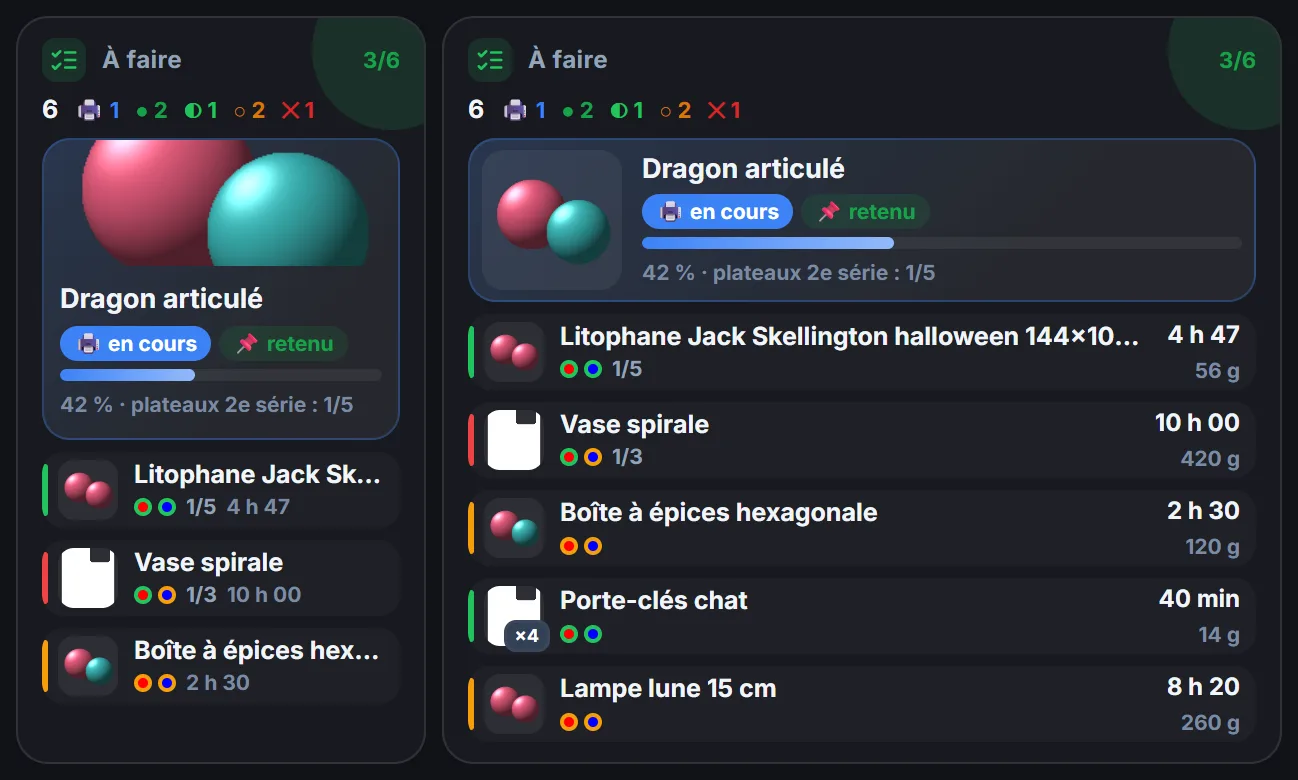
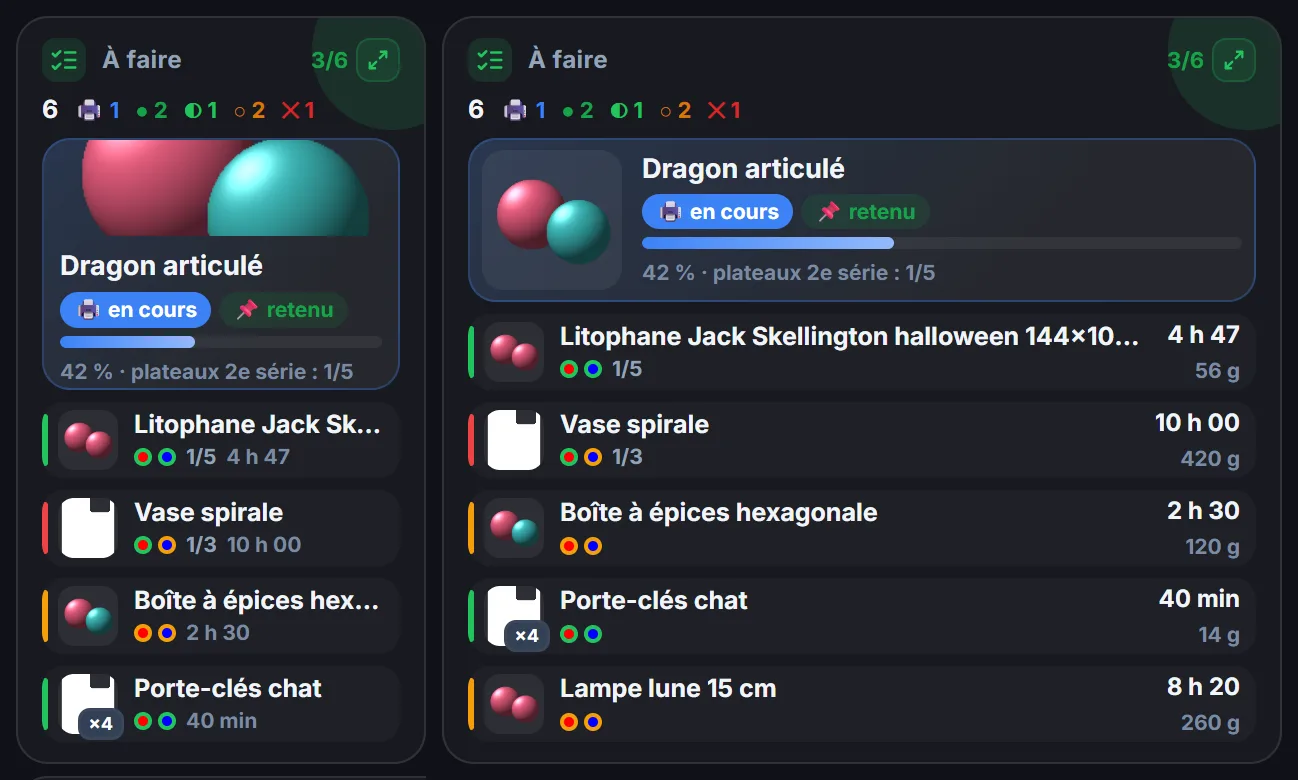
Accueil : Dernières impressions a la même ligne de comptes que À faire, et un bouton pastel dans l'en-tête des tuiles qui s'ouvrent en grand ; fiche MakerWorld : la galerie défile à la souris (glisser, flèches) sans se bloquer

diff --git a/frontend/src/components/HomeTiles.jsx b/frontend/src/components/HomeTiles.jsx
@@ -1,4 +1,4 @@
-import React, { createContext, useContext, useEffect, useLayoutEffect, useMemo, useRef, useState } from "react";
+import React, { createContext, useContext, useCallback, useEffect, useLayoutEffect, useMemo, useRef, useState } from "react";
 import { importRetry } from "../utils/importRetry";
 import AllAlertsModal from "./AllAlertsModal";
 import { Hide } from "./Cachettes";
@@ -10,7 +10,7 @@ import { createPortal } from "react-dom";
 import { useNavigate } from "react-router-dom";
 import { CalendarClock, BarChart3, ListChecks, History, Package, Flame, Droplets, Coins, Star, Users, Trophy,
          Dices, ChevronRight, Camera, Video, Thermometer, CalendarDays, ShoppingBag, Rss, Images, Zap, Medal as MedalIcon,
-         BellRing, Split, Fan, Wrench, TrendingUp, TrendingDown, Key, Ticket, X, ArrowUpRight, Timer, Palette, Target, Disc3, CalendarCheck } from "lucide-react";
+         BellRing, Split, Fan, Wrench, TrendingUp, TrendingDown, Key, Ticket, X, ArrowUpRight, Timer, Palette, Target, Disc3, CalendarCheck, Maximize2 } from "lucide-react";
 import client, { apiUrl, apiThumb } from "../api/client";
 import { mwImg } from "./MwImg";
 import LiveCamera from "./LiveCamera";
@@ -109,7 +109,8 @@ function Tile({ icon, color, label, to, zoom, onClick, badge, children, mini = f
   const nav = useNavigate();
   const [open, setOpen] = useState(false);
   const [ref, box] = useMeasure();
-  const act = onClick || (zoom ? () => setOpen(true) : to ? () => nav(to) : null);
+  const openBig = useCallback(() => setOpen(true), []);
+  const act = onClick || (zoom ? openBig : to ? () => nav(to) : null);
   const big = open && <Zoom icon={icon} color={color} label={label} to={to} onClose={() => setOpen(false)}>{zoom}</Zoom>;
   if (mini) return (
     <div className="card" role={act ? "button" : undefined} tabIndex={act ? 0 : undefined} onClick={act}
@@ -139,7 +140,11 @@ function Tile({ icon, color, label, to, zoom, onClick, badge, children, mini = f
           whiteSpace: "nowrap", minWidth: 0 }}><W text={label}/></span>
         <Hide at={`tile:${label}`}/>
         <span style={{ marginLeft: "auto", display: "flex", alignItems: "center", gap: 4, flexShrink: 0 }}>
-          {badge}{!zoom && act && <ChevronRight size={14} style={{ color: "var(--muted)" }}/>}</span>
+          {badge}{!zoom && act && <ChevronRight size={14} style={{ color: "var(--muted)" }}/>}
+          {/* la tuile s'ouvre en grand en touchant son fond ; ses elements, eux, ouvrent leur fiche : le bouton le dit */}
+          {zoom && act === openBig && <span data-pk="" data-tip="Ouvrir en grand" aria-hidden="true" style={{ width: 22, height: 22, borderRadius: 7, flexShrink: 0,
+            display: "flex", alignItems: "center", justifyContent: "center", color, background: `${color}1a`, border: `1px solid ${color}33`, boxSizing: "border-box" }}>
+            <Maximize2 size={11} strokeWidth={2.5}/></span>}</span>
       </div>
       <div ref={ref} style={{ position: "relative", minWidth: 0, flex: 1, minHeight: 0, display: "flex", flexDirection: "column", justifyContent: "center" }}>
         {box.W > 0 && <BoxCtx.Provider value={box}>{kids(children, box)}</BoxCtx.Provider>}
@@ -945,6 +950,14 @@ function ListRow({ edge, img, thumb = true, badge, title, sub, right, h = ROW_H,
     {right}
   </div>;
 }
+// la ligne des comptes, au-dessus de la liste (« À faire » et « Dernières impressions », meme dessin) :
+// le total, puis chaque etat present, avec son mot quand la largeur le permet
+function ListCounts({ W, n, label, items }) {
+  const nar = W < 400;
+  return <div style={{ display: "flex", gap: nar ? 8 : 10, alignItems: "center", height: 16, flexShrink: 0, overflow: "hidden", whiteSpace: "nowrap", fontSize: 11, fontWeight: 800 }}>
+    <span style={{ color: "var(--text)" }}><b data-pk="" style={{ fontSize: 12.5, fontWeight: 900 }}>{n}</b>{nar ? "" : ` ${label}`}</span>
+    {items.filter(x => x[0]).map(([k, c, ic, l]) => <span key={l} data-tip={`${k} ${l}`} style={{ color: c }}>{ic} {k}{nar ? "" : ` ${l}`}</span>)}</div>;
+}
 // le heros : la vignette en grand (a gauche, ou en haut si la tuile est etroite et haute), le titre,
 // l'etat, et l'avancement s'il imprime
 function ListHero({ img, color, title, chips, meta, pct, foot, h, stacked, onOpen, badge }) {
@@ -1051,12 +1064,8 @@ function Next({ q, o, sz }) {
         {!wide && m.seconds ? <span>{fmtDur(m.seconds)}</span> : null}</>}
       right={wide ? <RightCol a={m.seconds ? fmtDur(m.seconds) : null} b={o.weight && m.weight_g ? fmtG(m.weight_g) : null}/> : null}/>; };
   // la ligne des comptes, au-dessus de la liste
-  const counts = W => { const nar = W < 400;
-    const it = [[busy, "#3b82f6", "🖨", "en cours"], [ready, "#16a34a", "●", ready > 1 ? "prêts" : "prêt"], [part, "#22c55e", "◐", "en partie"],
-      [stock, "#d97706", "○", "à charger"], [short, "#dc2626", "✕", "manque"]].filter(x => x[0]);
-    return <div style={{ display: "flex", gap: nar ? 8 : 10, alignItems: "center", height: 16, flexShrink: 0, overflow: "hidden", whiteSpace: "nowrap", fontSize: 11, fontWeight: 800 }}>
-      <span style={{ color: "var(--text)" }}><b data-pk="" style={{ fontSize: 12.5, fontWeight: 900 }}>{all.length}</b>{nar ? "" : " à faire"}</span>
-      {it.map(([n, c, ic, l]) => <span key={l} data-tip={`${n} ${l}`} style={{ color: c }}>{ic} {n}{nar ? "" : ` ${l}`}</span>)}</div>; };
+  const counts = W => <ListCounts W={W} n={all.length} label="à faire" items={[[busy, "#3b82f6", "🖨", "en cours"],
+    [ready, "#16a34a", "●", ready > 1 ? "prêts" : "prêt"], [part, "#22c55e", "◐", "en partie"], [stock, "#d97706", "○", "à charger"], [short, "#dc2626", "✕", "manque"]]}/>;
   return (
     <Tile icon={<ListChecks size={15}/>} color="#22C55E" label="À faire" to="/prints?tab=queue"
       mini={sz.h === 0.5} summary={q ? <>{ready + part}<span style={{ fontSize: 12, color: "var(--muted)" }}>/ {all.length} prêts</span></> : "…"}
@@ -1211,6 +1220,11 @@ function Last({ p, o, sz, st, lp }) {
       meta={x.live ? [st?.remaining_minutes ? `fin à ${finAt(st.remaining_minutes)}` : null, st?.total_layers ? `couche ${st.layer}/${st.total_layers}` : null].filter(Boolean).join(" · ")
         : [d && ago(d), x.duration_seconds && fmtDur(x.duration_seconds), W >= 215 && x.total_weight_g && fmtG(x.total_weight_g), o.cost && x.total_cost && fmtEur(x.total_cost)].filter(Boolean).join(" · ")}/>; };
   const done = list.filter(x => !x.live);
+  // la ligne des comptes, comme « À faire » : les dernieres, et leur etat
+  const nOf = l => done.filter(x => lastState(x)[0] === l).length;
+  const counts = W => { const ok = nOf("réussie"), part = nOf("en partie"), ko = nOf("échouée");
+    return <ListCounts W={W} n={done.length} label={done.length > 1 ? "dernières" : "dernière"} items={[[live ? 1 : 0, "#3b82f6", "🖨", "en cours"],
+      [ok, "#16a34a", "✓", ok > 1 ? "réussies" : "réussie"], [part, "#d97706", "◐", "en partie"], [ko, "#dc2626", "✕", ko > 1 ? "échouées" : "échouée"]]}/>; };
   return (
     <Tile icon={<History size={15}/>} color="#0EA5E9" label="Dernières impressions" to="/prints"
       mini={sz.h === 0.5} summary={<span style={{ fontSize: 12.5, overflow: "hidden", textOverflow: "ellipsis" }}>
@@ -1219,17 +1233,20 @@ function Last({ p, o, sz, st, lp }) {
       zoom={<LastZoom list={list} done={done} heroOf={heroOf} rows={rows}/>}>
       {({ W, H }) => {
         const [hero, ...rest] = list;
+        // la ligne des comptes, quand la tuile a la place (comme « À faire »)
+        const head = H >= 150 ? 22 : 0, Hb = H - head;
         // les intercalaires de jour seulement s'ils ne coutent aucune rangee (sinon « hier 09:44 » sur chacune)
         const first = dayKey(when(hero));
-        const pD = W >= 215 ? listPlan(W, H, list.length, fitDays(rest, first, true)) : null;
-        const p0 = listPlan(W, H, list.length, fitDays(rest, first, false));
+        const pD = W >= 215 ? listPlan(W, Hb, list.length, fitDays(rest, first, true)) : null;
+        const p0 = listPlan(W, Hb, list.length, fitDays(rest, first, false));
         const days = !!pD && pD.rows >= p0.rows && pD.rows > 0;
-        const pl = o.scroll ? { heroH: Math.min(78, Math.max(56, H * 0.35)), stacked: false, rows: rest.length, rh: ROW_H } : days ? pD : p0;
+        const pl = o.scroll ? { heroH: Math.min(78, Math.max(56, Hb * 0.35)), stacked: false, rows: rest.length, rh: ROW_H } : days ? pD : p0;
         return <div style={{ flex: 1, minHeight: 0, display: "flex", flexDirection: "column", gap: 6 }}>
           {open && <PrintSheets open={open} setOpen={setOpen}/>}
+          {head > 0 && counts(W)}
           {heroOf(hero, pl.heroH, pl.stacked, W)}
           {pl.rows > 0 && (o.scroll ? <Scroller>{rows(rest, W, null, first, days)}</Scroller>
-            : rows(rest, W, H - pl.heroH - 6, first, days, pl.rh))}
+            : rows(rest, W, Hb - pl.heroH - 6, first, days, pl.rh))}
         </div>;
       }}
     </Tile>

diff --git a/frontend/src/components/MakerWorldModelSheet.jsx b/frontend/src/components/MakerWorldModelSheet.jsx
@@ -320,20 +320,7 @@ export default function MakerWorldModelSheet({ designId, preview, onClose, onSea
             </div>) : (<>
             {/* Galerie : glisser de cote, toucher pour agrandir ; le defilement de la fiche reste libre */}
             {m.pictures?.length > 0 ? (
-              <div style={{ display:"flex", gap:8, overflowX:"auto", scrollSnapType:"x mandatory", margin:"0 -16px 14px",
-                padding:"52px 16px 4px", touchAction:"pan-x pan-y",
-                background:"radial-gradient(70% 60% at 50% 0%, rgba(6,182,212,0.18), transparent 70%)" }}>
-                {m.pictures.map((u, i) => (
-                  <a key={i} href={u} onClick={e => { e.preventDefault(); setZoom({ images: m.pictures, index: i }); }}
-                    style={{ position:"relative", flexShrink:0, width:"78%", maxWidth:360, scrollSnapAlign:"center", cursor:"zoom-in" }}>
-                    <MwImg src={u} w={360} eager={i < 2} animate
-                      style={{ width:"100%", aspectRatio:"1", objectFit:"cover", borderRadius:18, display:"block",
-                        background:"var(--surface2)", boxShadow:"0 12px 28px -14px rgba(0,0,0,.6)" }}/>
-                    {m.pictures.length > 1 && <span style={{ position:"absolute", right:8, bottom:8, padding:"2px 8px", borderRadius:20, fontSize:10.5,
-                      fontWeight:800, color:"#fff", background:"rgba(15,23,42,0.6)", backdropFilter:"blur(6px)" }}>{i + 1} / {m.pictures.length}</span>}
-                  </a>
-                ))}
-              </div>
+              <PicStrip pictures={m.pictures} onOpen={i => setZoom({ images: m.pictures, index: i })}/>
             ) : <div style={{ height:52 }}/>}
 
             {/* titre, createur */}
@@ -767,6 +754,58 @@ const IS_MAC = typeof navigator !== "undefined" && /Mac/i.test(navigator.platfor
   && !(navigator.maxTouchPoints > 1);
 
 // Telephone ou tablette (iPad compris, qui se dit « Mac ») : pas de Bambu Studio.
+// La galerie de la fiche : une bande qui glisse de cote. Au doigt, chaque image se cale au centre ;
+// a la souris, on la tire (sans declencher l'agrandissement), et deux fleches avancent d'une image.
+// Avant : des liens <a> que la souris « attrapait » (glisser-deposer du lien au lieu de defiler),
+// et un calage strict qui ramenait la bande en arriere au pave tactile : elle semblait bloquee.
+function PicStrip({ pictures, onOpen }) {
+  const ref = useRef(null);
+  const drag = useRef(null);
+  const [edge, setEdge] = useState({ l: false, r: pictures.length > 1 });
+  // pas un ecran tactile (souris, pave tactile) : fleches, glisser a la souris, calage souple
+  const fine = typeof window !== "undefined" && !window.matchMedia?.("(pointer: coarse)").matches;
+  const look = () => { const el = ref.current; if (!el) return;
+    setEdge({ l: el.scrollLeft > 4, r: el.scrollLeft + el.clientWidth < el.scrollWidth - 4 }); };
+  useEffect(() => { look(); }, [pictures.length]); // eslint-disable-line react-hooks/exhaustive-deps
+  const step = d => { const el = ref.current; if (!el) return;
+    const w = el.firstElementChild?.getBoundingClientRect().width || el.clientWidth * 0.78;
+    el.scrollBy({ left: d * (w + 8), behavior: "smooth" }); };
+  const down = e => { if (e.pointerType !== "mouse" || e.button !== 0) return;
+    drag.current = { x: e.clientX, left: ref.current.scrollLeft, moved: false }; };
+  const move = e => { const d = drag.current; if (!d) return;
+    const dx = e.clientX - d.x;
+    if (Math.abs(dx) > 4) d.moved = true;
+    if (d.moved) ref.current.scrollLeft = d.left - dx; };
+  const up = () => { const d = drag.current; drag.current = null;
+    if (d?.moved) { ref.current.dataset.dragged = "1"; setTimeout(() => { if (ref.current) delete ref.current.dataset.dragged; }, 0); } };
+  const arrow = (d, show) => fine && pictures.length > 1 && show && <button type="button" aria-label={d < 0 ? "Image précédente" : "Image suivante"}
+    onClick={e => { e.stopPropagation(); step(d); }}
+    style={{ position:"absolute", top:"calc(50% + 24px)", [d < 0 ? "left" : "right"]:8, transform:"translateY(-50%)", width:34, height:34, borderRadius:"50%",
+      border:"1px solid rgba(255,255,255,.35)", background:"rgba(15,23,42,0.55)", backdropFilter:"blur(6px)", color:"#fff", fontSize:18, fontWeight:900,
+      cursor:"pointer", display:"flex", alignItems:"center", justifyContent:"center", zIndex:2 }}>{d < 0 ? "‹" : "›"}</button>;
+  return (
+    <div style={{ position:"relative", margin:"0 -16px 14px" }}>
+      <div ref={ref} onScroll={look} onPointerDown={down} onPointerMove={move} onPointerUp={up} onPointerLeave={up}
+        style={{ display:"flex", gap:8, overflowX:"auto", scrollSnapType: fine ? "x proximity" : "x mandatory", overscrollBehaviorX:"contain",
+          padding:"52px 16px 4px", touchAction:"pan-x pan-y", cursor: fine && pictures.length > 1 ? "grab" : undefined,
+          background:"radial-gradient(70% 60% at 50% 0%, rgba(6,182,212,0.18), transparent 70%)" }}>
+        {pictures.map((u, i) => (
+          <div key={i} role="button" tabIndex={0} draggable={false}
+            onClick={() => { if (!ref.current?.dataset.dragged) onOpen(i); }}
+            onKeyDown={e => { if (e.key === "Enter") onOpen(i); }}
+            style={{ position:"relative", flexShrink:0, width:"78%", maxWidth:360, scrollSnapAlign:"center", cursor:"zoom-in" }}>
+            <MwImg src={u} w={360} eager={i < 2} animate draggable={false}
+              style={{ width:"100%", aspectRatio:"1", objectFit:"cover", borderRadius:18, display:"block", userSelect:"none",
+                background:"var(--surface2)", boxShadow:"0 12px 28px -14px rgba(0,0,0,.6)" }}/>
+            {pictures.length > 1 && <span style={{ position:"absolute", right:8, bottom:8, padding:"2px 8px", borderRadius:20, fontSize:10.5,
+              fontWeight:800, color:"#fff", background:"rgba(15,23,42,0.6)", backdropFilter:"blur(6px)" }}>{i + 1} / {pictures.length}</span>}
+          </div>
+        ))}
+      </div>
+      {arrow(-1, edge.l)}{arrow(1, edge.r)}
+    </div>
+  );
+}
 const IS_MOBILE = typeof navigator !== "undefined" && (/Android|iPhone|iPad|iPod/i.test(navigator.userAgent)
   || (navigator.platform === "MacIntel" && navigator.maxTouchPoints > 1));
 

diff --git a/backend/guide/pages/tuiles.html b/backend/guide/pages/tuiles.html
@@ -232,8 +232,8 @@
 
   <section id="tuiles-last">
     <h3>Dernières impressions</h3>
-    <p><b>Ce qu'elle montre</b> : en tête, une grande carte : l'impression en cours (barre d'avancement, « 🖨 en cours · 42 % », « fin à 14:35 · couche 120/300 »), sinon la dernière terminée (« ✓ réussie », « ✕ échouée » ou « ◐ en partie », « il y a 2 h · 1 h 05 · 130 g »). Dessous, une rangée fine par impression : un liseré de couleur à gauche (vert réussie, rouge échouée, orange en partie, bleu en cours), la vignette avec sa pastille d'état, « ×5 » pour un <a href="#impressions-groupes">groupe</a> (nom du groupe, durées, poids et coûts additionnés) et une petite caméra bleue s'il manque la photo ; le nom, l'état et quand ; à droite, la durée puis « poids · coût » quand la tuile est assez large. Quand la place le permet sans perdre de rangée, les impressions sont rangées par jour sous des intercalaires <span class="ui">AUJOURD'HUI</span>, <span class="ui">HIER</span>, <span class="ui">MARDI</span>… et chaque rangée donne l'heure ; sinon chaque rangée dit le jour et l'heure (« hier 09:44 », « mar. 23:33 »). La tuile s'adapte : basse, la grande carte seule ; en demi-colonne et haute, la carte devient une grande vignette pleine largeur ; plus haute, la carte se tasse et les rangées s'affinent pour en montrer le plus possible, et ce qui reste de place revient à la carte. Toucher la carte ou une rangée ouvre la fiche de l'impression ou du groupe ; le reste de la tuile ouvre la vue en grand. Le badge de l'en-tête (« ✓ 5/6 ») compte les réussies parmi les dernières.</p>
-    <figure><img src="img/tuiles-last.webp" alt="Tuile Dernières impressions"><figcaption>Sur 3 rangées : en demi-colonne, l'impression en cours en grand ; sur toute la colonne, les impressions rangées par jour.</figcaption></figure>
+    <p><b>Ce qu'elle montre</b> : en tête, une grande carte : l'impression en cours (barre d'avancement, « 🖨 en cours · 42 % », « fin à 14:35 · couche 120/300 »), sinon la dernière terminée (« ✓ réussie », « ✕ échouée » ou « ◐ en partie », « il y a 2 h · 1 h 05 · 130 g »). Dessous, une rangée fine par impression : un liseré de couleur à gauche (vert réussie, rouge échouée, orange en partie, bleu en cours), la vignette avec sa pastille d'état, « ×5 » pour un <a href="#impressions-groupes">groupe</a> (nom du groupe, durées, poids et coûts additionnés) et une petite caméra bleue s'il manque la photo ; le nom, l'état et quand ; à droite, la durée puis « poids · coût » quand la tuile est assez large. Sur deux rangées ou plus, une ligne de comptes en haut, comme pour « À faire » : « 6 dernières · 🖨 1 en cours · ✓ 5 réussies · ◐ 1 en partie · ✕ 1 échouée » (les seuls chiffres en demi-colonne). Quand la place le permet sans perdre de rangée, les impressions sont rangées par jour sous des intercalaires <span class="ui">AUJOURD'HUI</span>, <span class="ui">HIER</span>, <span class="ui">MARDI</span>… et chaque rangée donne l'heure ; sinon chaque rangée dit le jour et l'heure (« hier 09:44 », « mar. 23:33 »). La tuile s'adapte : basse, la grande carte seule ; en demi-colonne et haute, la carte devient une grande vignette pleine largeur ; plus haute, la carte se tasse et les rangées s'affinent pour en montrer le plus possible, et ce qui reste de place revient à la carte. Toucher la carte ou une rangée ouvre la fiche de l'impression ou du groupe ; le reste de la tuile ouvre la vue en grand. Le badge de l'en-tête (« ✓ 5/6 ») compte les réussies parmi les dernières.</p>
+    <figure><img src="img/tuiles-last.webp" alt="Tuile Dernières impressions"><figcaption>Sur 3 rangées : la ligne des comptes ; en demi-colonne, l'impression en cours en grand ; sur toute la colonne, la carte et une rangée par impression.</figcaption></figure>
     <dl class="opts">
       <dt><span class="ui">Depuis quand</span> (oui)</dt><dd>Le « il y a 2 h » de chaque rangée (l'heure quand elles sont rangées par jour).</dd>
       <dt><span class="ui">Coût</span> (non)</dt><dd>Le coût de chaque impression, à côté du poids.</dd>

diff --git a/backend/guide/pages/accueil.html b/backend/guide/pages/accueil.html
@@ -102,7 +102,7 @@
     <li>Une tuile qui n'a rien à montrer (par exemple <span class="ui">Copains</span> si tu n'as pas de copain) disparaît de l'accueil ; elle réapparaît dès qu'elle a du contenu.</li>
     <li>Pendant le chargement, chaque tuile est déjà à sa place : son nom, ce qu'elle montre (« Ce que tes copains impriment en ce moment ») et « chargement ». Les tuiles ne bougent donc pas quand les données arrivent.</li>
   </ul>
-  <p><strong>Toucher une tuile</strong> ouvre sa vue en grand (une fenêtre détaillée, qui monte du bas sur téléphone) ou mène à sa page. Le détail de chaque tuile est dans <a href="#tuiles">Les tuiles</a> ; les blocs Imprimante, AMS et Rack Vortek, et les points d'attention, dans <a href="#imprimante">L'imprimante sur l'accueil</a>.</p>
+  <p><strong>Toucher une tuile</strong> ouvre sa vue en grand (une fenêtre détaillée, qui monte du bas sur téléphone) ou mène à sa page. Une tuile qui s'ouvre en grand porte dans son en-tête un petit bouton pastel <span class="ui">⤢</span> : toucher son en-tête ou son fond l'ouvre en grand, alors que toucher un de ses éléments (une impression, un modèle) ouvre la fiche de cet élément. Le détail de chaque tuile est dans <a href="#tuiles">Les tuiles</a> ; les blocs Imprimante, AMS et Rack Vortek, et les points d'attention, dans <a href="#imprimante">L'imprimante sur l'accueil</a>.</p>
 
   <section id="accueil-hauteurs">
     <h3>Tailles possibles</h3>

diff --git a/backend/guide/pages/makerworld.html b/backend/guide/pages/makerworld.html
@@ -276,7 +276,7 @@
   <section id="makerworld-fiche-haut">
     <h3>Galerie, titre et compteurs</h3>
     <ul>
-      <li><b>Galerie</b> horizontale : les images du créateur et les photos d'impressions réelles (30 au plus), avec « 1 / 3 » sur chacune. Glisse de côté ; touche une image pour la voir en plein écran.</li>
+      <li><b>Galerie</b> horizontale : les images du créateur et les photos d'impressions réelles (30 au plus), avec « 1 / 3 » sur chacune. Glisse de côté ; touche une image pour la voir en plein écran. Sur ordinateur, tire la bande à la souris ou utilise les flèches <span class="ui">‹</span> <span class="ui">›</span> sur ses bords.</li>
       <li>La ligne <b>🌐 MAKERWORLD</b> et la <b>licence</b> (BY-NC…), le <b>titre</b> en français, et le titre d'origine en gris s'il diffère.</li>
       <li>« par <i>créateur</i> », avec son avatar (touche le nom pour <a href="#makerworld-page-createur">sa page</a>), et la date de publication.</li>
       <li><b>Compteurs</b>, en tuiles de couleur : ❤ j'aime, ⬇ téléchargements, 🖨 impressions, 🔖 collections, 💬 avis (« 1.2k » = 1 200).</li>
